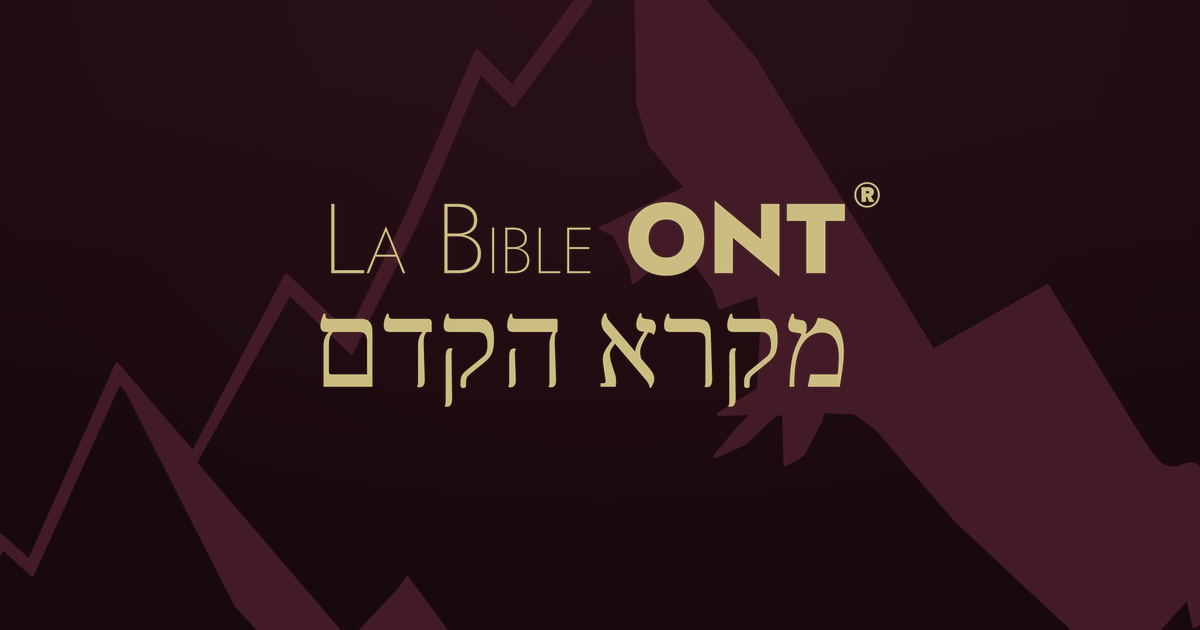
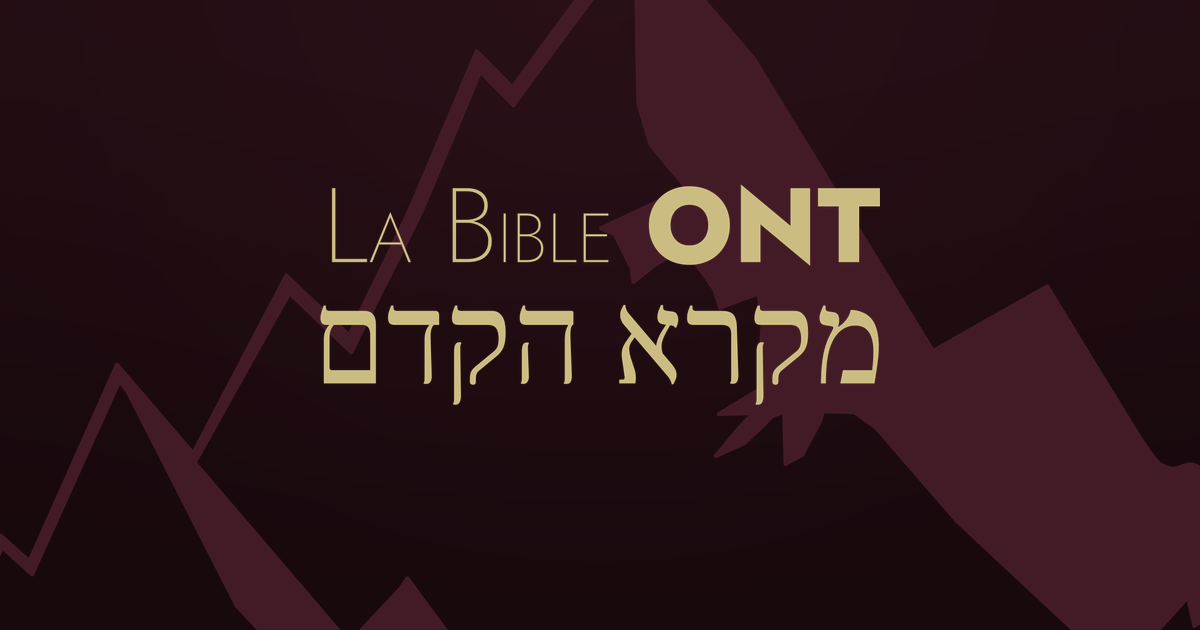
Retirer le ® des vecteurs, en attendant l'enregistrement
Apposer ® sur une marque non déposée à l'INPI relève de l'article L.716-9 du
code de la propriété intellectuelle. Ce n'est pas un risque commercial dont on
pèserait la probabilité : c'est une infraction, et le wordmark est sur toutes
les pages du site.

Le dépôt est lancé, l'enregistrement prendra des mois. Le sigle part donc en
attendant, et les originaux restent sous `*-avec-r.svg` : le jour venu, il
suffira de les remettre en place et de relancer `images-sociales.py`.

`scripts/retirer-le-r.py` le fait par la géométrie, parce qu'Affinity exporte
la marque entière en **un seul tracé** : le ® n'y est que quatre sous-tracés
parmi trente-deux, et leur numéro changerait au prochain export.

Trois règles, et les trois viennent d'un essai raté :

1. **Le plus petit groupe séparable depuis la droite**, pas le plus grand — en
   remontant vers la gauche, chaque lettre finit par être « séparable » de
   celles qui la précèdent.
2. **Les filets écartés d'abord.** Celui du combination mark traverse toute la
   largeur : tant qu'il compte, rien n'est jamais entièrement à sa droite, et
   la recherche ne trouvait rien sur une marque qui porte pourtant le sigle en
   évidence.
3. **Le candidat mesuré contre sa ligne**, pas contre la marque entière. La
   montagne du combination mark écrase toutes les proportions et faisait passer
   une lettre pour un exposant — deux tracés mangés en trop. Rapporté à sa
   ligne, le sigle fait 37 % dans les deux marques.
[…]

diff --git a/scripts/retirer-le-r.py b/scripts/retirer-le-r.py
@@ -1,0 +1,176 @@
+#!/usr/bin/env python3
+
+"""Retire le ® du wordmark et du combination mark.
+
+## Pourquoi ce script existe
+
+Apposer ® sur une marque qui n'est pas déposée à l'INPI relève de l'article
+L.716-9 du code de la propriété intellectuelle. Ce n'est pas un risque
+commercial dont on pèserait la probabilité : c'est une infraction, et le
+wordmark est sur **toutes** les pages du site.
+
+Le dépôt est lancé. Tant que l'enregistrement n'est pas prononcé — plusieurs
+mois — le sigle ne peut pas rester. Ce script le retire, et garde l'original
+sous `*-avec-r.svg` pour le jour où il redeviendra légitime : il suffira alors
+de remettre ces fichiers en place.
+
+## Il mesure au lieu de supposer
+
+Le ® n'est pas un élément séparé qu'on pourrait supprimer du balisage. Affinity
+exporte la marque entière en **un seul tracé**, dont le ® n'est que quatre
+sous-tracés parmi trente-deux — le cercle, son intérieur, la panse du R et son
+délié.
+
+On ne les désigne donc pas par leur numéro, qui changerait au prochain export.
+On les trouve par la géométrie, et la règle tient en une phrase : **le ® est le
+plus petit groupe de sous-tracés, pris depuis la droite, qui ne chevauche plus
+rien de ce qui reste**. Aucune lettre n'est à droite du sigle — c'est ce qui le
+définit comme exposant final.
+
+Un premier essai triait par la **hauteur** : les quatre sous-tracés du ® sont
+petits, les lettres sont grandes. Il ne marchait pas, et l'erreur est
+instructive. Les contre-formes — l'intérieur d'un B, d'un e, d'un O — sont des
+sous-tracés à part entière, et certaines font trente unités quand le cercle du
+® en fait trente-cinq. Aucun seuil de hauteur ne sépare les deux, parce qu'ils
+se recouvrent réellement.
+
+La séparation horizontale, elle, est nette : le sigle commence à 15635 là où le
+texte s'arrête à 15622. On prend donc le plus petit groupe séparable, et non le
+plus grand — car en remontant vers la gauche, chaque lettre finit par être
+« séparable » de celles qui la précèdent, et un groupe trop grand emporterait
+des lettres. Une vérification de taille refuse en dernier recours tout groupe
+dont la hauteur approche celle d'une capitale.
+
+## Il est idempotent
+
+Relancé sur un fichier déjà traité, il trouve la dernière lettre à la place du
+sigle, la mesure contre ses voisines de ligne, et n'écrit pas. Vérifié sur trois
+passes. À passer après `normaliser-svg.py`, sans réfléchir, à chaque nouvel
+export.
+"""
+
+import re
+import shutil
+import statistics
+import sys
+from pathlib import Path
+
+RACINE = Path(__file__).resolve().parent.parent / "public/images"
+MARQUES = ["wordmark.svg", "combination-mark.svg"]
+
+
+def sous_traces(d: str) -> list[str]:
+    """Découpe l'attribut `d` en sous-tracés.
+
+    Chaque sous-tracé commence par un `M` absolu — c'est la seule commande qui
+    lève le crayon. Affinity n'émet que des `M` majuscules en tête de contour.
+    """
+    return ["M" + morceau for morceau in d.split("M") if morceau.strip()]
+
+
+def boite(sous_trace: str) -> tuple[float, float, float, float]:
+    """La boîte englobante, prise sur les points de contrôle.
+
+    C'est une approximation — une courbe de Bézier peut sortir de l'enveloppe
+    de ses points — mais elle est *conservatrice dans le bon sens* : elle
+    surestime plutôt qu'elle ne sous-estime, donc elle ne fait jamais passer un
+    tracé pour plus à gauche qu'il n'est.
+    """
+    nombres = [float(x) for x in re.findall(r"-?\d+\.?\d*", sous_trace)]
+    xs, ys = nombres[0::2], nombres[1::2]
+    return min(xs), min(ys), max(xs), max(ys)
+
+
+def retirer(chemin: Path) -> bool:
+    """Écrit la marque sans son ®. Rend vrai si le fichier a changé."""
+    source = chemin.read_text()
+    correspondance = re.search(r'(\sd=")([^"]+)(")', source)
+    if not correspondance:
+        raise SystemExit(f"{chemin.name} : aucun attribut `d`.")
+
+    traces = sous_traces(correspondance.group(2))
+    boites = [boite(t) for t in traces]
+    hauteur_totale = max(b[3] for b in boites) - min(b[1] for b in boites)
+
+    largeur_totale = max(b[2] for b in boites) - min(b[0] for b in boites)
+
+    # Les filets sont mis de côté avant tout.
+    #
+    # Le combination mark en porte un, qui sépare la montagne du texte et
+    # traverse **toute** la largeur. Tant qu'il compte, rien n'est jamais
+    # entièrement à droite de lui, et la recherche ne trouve rien — c'est ce
+    # qui est arrivé au premier essai, sur une marque qui porte pourtant le
+    # sigle en évidence.
+    #
+    # Un filet se reconnaît sans ambiguïté : très large, et presque sans
+    # hauteur. Aucune lettre n'a cette forme.
+    def est_filet(b: tuple[float, float, float, float]) -> bool:
+        return (b[2] - b[0]) > largeur_totale * 0.6 and (b[3] - b[1]) < hauteur_totale * 0.05
+
+    glyphes = [i for i, b in enumerate(boites) if not est_filet(boites[i])]
+
+    # Du plus à droite au plus à gauche.
+    ordre = sorted(glyphes, key=lambda i: boites[i][0], reverse=True)
+
+    sigle: list[int] = []
+    for k in range(1, len(ordre)):
+        groupe, reste = ordre[:k], ordre[k:]
+        if min(boites[i][0] for i in groupe) > max(boites[i][2] for i in reste):
+            sigle = groupe
+            break
+
+    # Un groupe séparable n'est pas encore un ®. Sur une marque déjà nettoyée,
+    # c'est la dernière lettre — séparable, elle aussi, une fois le sigle parti.
+    #
+    # On mesure donc le candidat contre **les glyphes qui partagent sa ligne**,
+    # et non contre la hauteur de la marque entière. Un premier essai le faisait,
+    # et il a mangé deux tracés de trop : le combination mark contient une
+    # montagne, qui écrase toutes les proportions et fait passer une lettre pour
+    # un exposant.
+    #
+    # Rapporté à sa ligne, le sigle mesure 37 % dans les deux marques — 35
+    # unités contre 95 sur le wordmark, 73 contre 198 sur le combination mark.
+    # Une lettre, elle, en mesure cent. Le seuil à 60 % laisse donc une marge
+    # confortable des deux côtés, et c'est ce qui rend le script rejouable : la
+    # seconde passe trouve la dernière lettre, la mesure, et s'arrête.
+    if sigle:
+        haut = min(boites[i][1] for i in sigle)
+        bas = max(boites[i][3] for i in sigle)
+        ligne = [
+            boites[i][3] - boites[i][1]
+            for i in glyphes
+            if i not in set(sigle) and boites[i][1] < bas and boites[i][3] > haut
+        ]
+        if not ligne or (bas - haut) > statistics.median(ligne) * 0.6:
+            sigle = []
+
+    if not sigle:
+        print(f"  {chemin.name} : déjà sans ®")
+        return False
+
+    garde = [t for i, t in enumerate(traces) if i not in set(sigle)]
+    retires = len(sigle)
+
+    # L'original, pour le jour de l'enregistrement.
+    original = chemin.with_name(chemin.stem + "-avec-r.svg")
+    if not original.exists():
+        shutil.copy2(chemin, original)
+        print(f"  {original.name} : original conservé")
+
+    chemin.write_text(
+        source[: correspondance.start(2)] + "".join(garde) + source[correspondance.end(2) :]
+    )
+    print(f"  {chemin.name} : {retires} sous-tracés retirés sur {len(traces)}")
+    return True
+
+
+def main() -> None:
+    for nom in MARQUES:
+        chemin = RACINE / nom
+        if not chemin.exists():
+            raise SystemExit(f"{nom} est introuvable dans {RACINE}.")
+        retirer(chemin)
+
+
+if __name__ == "__main__":
+    sys.exit(main())

diff --git a/CLAUDE.md b/CLAUDE.md
@@ -433,10 +433,16 @@ synchroniser les deux, et l'un des deux finirait périmé.
 | `montagne-512.png` | repli de favicon, pour les navigateurs sans SVG |
 | `portrait-640.webp`, `portrait-1024.webp` | Gloire Bikouta, détouré depuis le brut |
 | `apercu.png` | l'aperçu des messageries, 1200 × 630 — composé, voir ci-dessous |
+| `wordmark-avec-r.svg`, `combination-mark-avec-r.svg` | les originaux **avec le ®**, gardés pour le jour de l'enregistrement |
 | `touch-icon.png` | l'icône d'écran d'accueil iOS, opaque |
 
-Les SVG sortent d'Affinity et passent par `scripts/normaliser-svg.py`, qui est
-idempotent : à relancer après chaque nouvel export, sans réfléchir. Il pose la
+Les SVG sortent d'Affinity et passent par `scripts/normaliser-svg.py`, **puis
+par `scripts/retirer-le-r.py`** — tous deux idempotents, à relancer après chaque
+nouvel export, sans réfléchir. Le second retire le ® tant que la marque n'est
+pas enregistrée (§9), et il le trouve par la géométrie plutôt que par un numéro
+de sous-tracé, qui changerait au prochain export : c'est le plus petit groupe de
+contours, pris depuis la droite, qui ne chevauche plus rien — les filets mis à
+part, puisque celui du combination mark traverse toute la largeur. Il pose la
 `viewBox` que l'export omet — sans elle un vecteur ne se met pas à l'échelle,
 ce qui lui retire sa raison d'être — retire la taille en pixels pour que la CSS
 décide, et remplace la couleur en dur par `currentColor`, plus l'or de la
